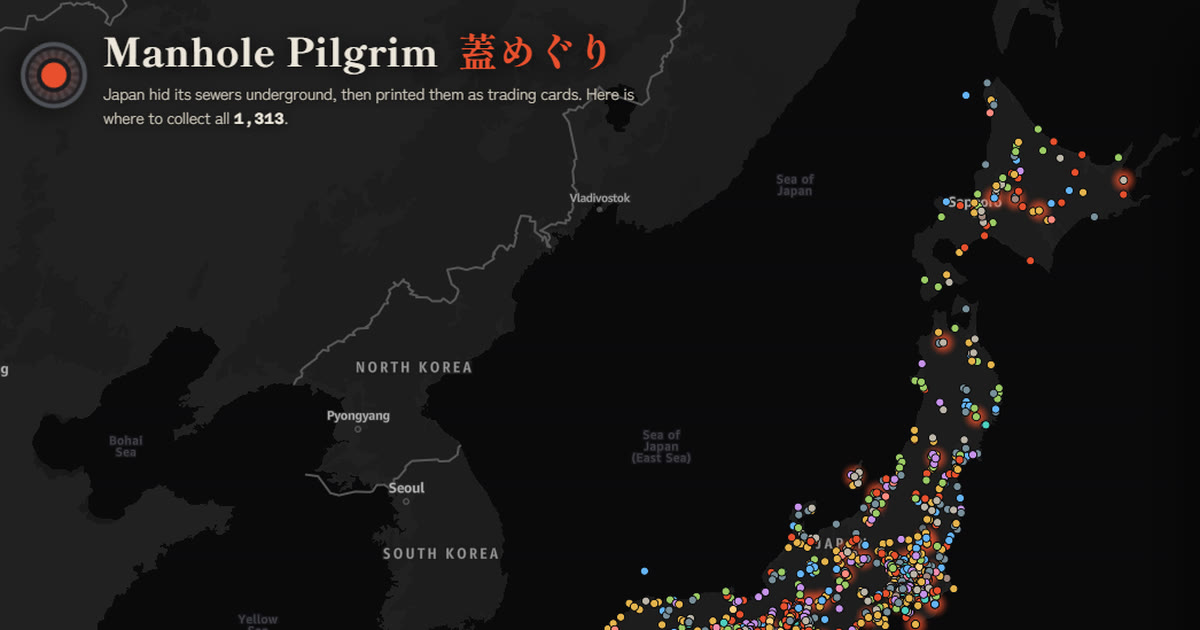
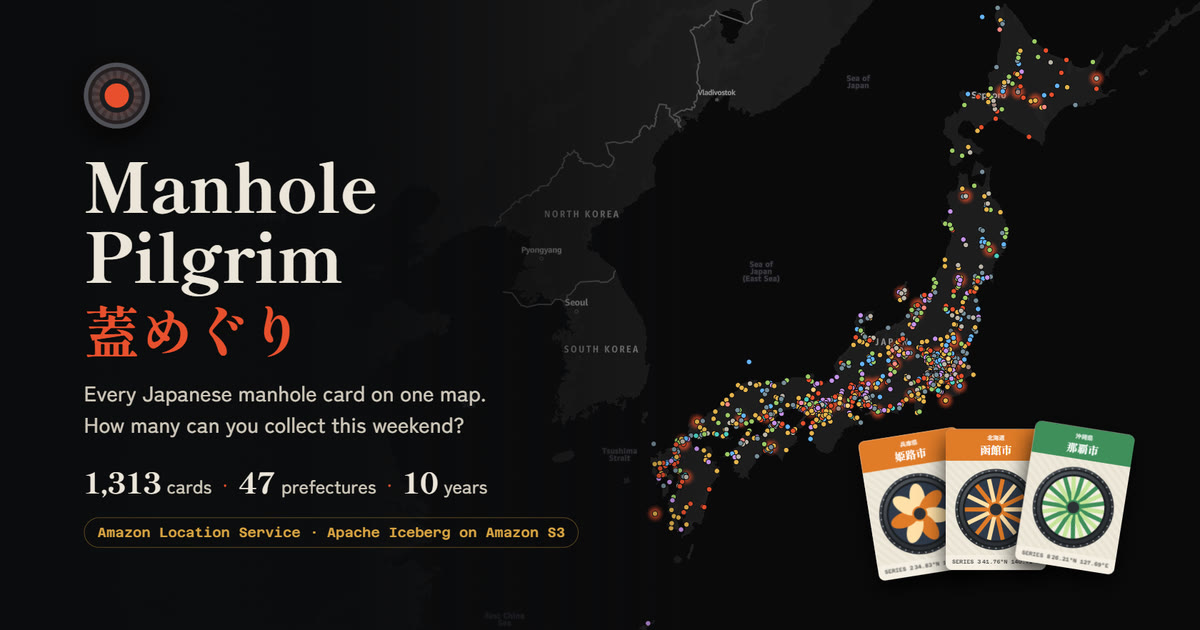
Article cover (original artwork + live map), new social preview

diff --git a/web/demo.js b/web/demo.js
@@ -303,7 +303,54 @@
     window.__demoDone = true;
   }
 
+  // ?demo=1&cover=1 → 静态封面（文章 / 社交预览用），不播放演示
+  async function cover() {
+    const { map } = MP;
+    stage.classList.remove("on");
+    document.querySelector("#panel").style.display = "none";
+    document.querySelector(".brand").style.display = "none";
+    document.querySelectorAll(".maplibregl-ctrl").forEach((c) => (c.style.display = "none"));
+    MP.S.series = MP.S.maxSeries - 1; MP.render(); // 只让最新一弾发光，避免画面太乱
+    MP.S.series = MP.S.maxSeries; MP.render();
+    const W = innerWidth, H = innerHeight;
+    map.jumpTo({ center: [136.6, 37.4], zoom: Math.log2(W / 1600) + 4.75 });
+    map.setPadding({ left: W * 0.42, top: 0, right: 0, bottom: 0 });
+    const el = document.createElement("div");
+    el.className = "cover";
+    el.innerHTML = `
+      <div class="cv-copy">
+        <div class="cv-lid"><span></span></div>
+        <h1>Manhole Pilgrim<br><span>蓋めぐり</span></h1>
+        <p>Every Japanese manhole card on one map.<br>How many can you collect this weekend?</p>
+        <div class="cv-stats"><b>1,313</b> cards <i>·</i> <b>47</b> prefectures <i>·</i> <b>10</b> years</div>
+        <div class="cv-aws">Amazon Location Service · Apache Iceberg on Amazon S3</div>
+      </div>
+      <div class="cv-cards">${["28-201-A-01", "01-202-A-01", "47-201-A-01"].map((id, i) => `<div class="cv-c" style="--i:${i}">${cardHTML(id, 190)}</div>`).join("")}</div>`;
+    const css2 = document.createElement("style");
+    css2.textContent = `
+      .cover { position: fixed; inset: 0; z-index: 70; pointer-events: none;
+        background: linear-gradient(90deg, #0b0c0d 0%, #0b0c0df2 30%, #0b0c0d99 44%, transparent 60%); }
+      .cv-copy { position: absolute; left: 7%; top: 50%; transform: translateY(-52%); color: #ece6da; max-width: 46%; }
+      .cv-lid { width: 92px; height: 92px; border-radius: 50%; margin-bottom: 28px; background: repeating-conic-gradient(#3b4046 0 10deg, #2b2f34 10deg 20deg);
+        box-shadow: inset 0 0 0 6px #4b5158, inset 0 0 0 11px #1b1d20, 0 10px 40px #000; display: grid; place-items: center; }
+      .cv-lid span { width: 34px; height: 34px; border-radius: 50%; background: #e8502d; box-shadow: 0 0 0 7px #1b1d20, 0 0 34px #e8502d; }
+      .cover h1 { font: 800 96px/1.02 "Shippori Mincho B1", serif; margin: 0; letter-spacing: -.01em; }
+      .cover h1 span { color: #e8502d; font-size: 78px; }
+      .cover p { font: 500 30px/1.45 "Zen Kaku Gothic New", sans-serif; color: #cfc8ba; margin: 26px 0 0; }
+      .cv-stats { margin-top: 30px; font: 500 26px "Zen Kaku Gothic New"; color: #cfc8ba; }
+      .cv-stats b { font: 800 40px "Shippori Mincho B1", serif; color: #ece6da; } .cv-stats i { color: #e8502d; font-style: normal; margin: 0 8px; }
+      .cv-aws { margin-top: 22px; display: inline-block; font: 600 19px "Azeret Mono", monospace; color: #d9a441; border: 1px solid #d9a44166; border-radius: 999px; padding: 9px 18px; }
+      .cv-cards { position: absolute; right: 7%; bottom: 9%; width: 440px; height: 300px; zoom: .74; }
+      .cv-c { position: absolute; bottom: 0; left: calc(var(--i) * 118px); transform: rotate(calc((var(--i) - 1) * 9deg)) translateY(calc(var(--i) * -6px)); transform-origin: 50% 120%; }
+      .cv-c .mcard { opacity: 1; transform: none; }`;
+    document.head.appendChild(css2);
+    document.body.appendChild(el);
+    await new Promise((r) => map.once("idle", r));
+    window.__coverReady = true;
+  }
+
   window.addEventListener("mp:ready", async () => {
+    if (qs.has("cover")) return cover();
     if (qs.has("wait")) {
       // 场记板：纯白画面，录屏开始后调用 window.__demoGo() 才开始，白→黑的跳变用来精确对齐配音
       const slate = Object.assign(document.createElement("div"), { style: "position:fixed;inset:0;z-index:100;background:#fff" });

diff --git a/docs/builder-center-article.md b/docs/builder-center-article.md
@@ -1,6 +1,4 @@
-# Manhole Pilgrim: mapping all 1,313 Japanese manhole cards with Amazon Location Service and Apache Iceberg on S3
-
-**Japan hid its sewers underground, then printed them as trading cards. I put all 1,313 on one map, so a traveller can see how many they can collect this weekend and get a route.**
+**Japan hid its sewers underground, then printed them as trading cards. I put all 1,313 on one map, so a traveller can see how many they can collect this weekend and get a route.**
 
 - 🗺 **Live map:** https://main.d1y4wxk0wltj16.amplifyapp.com
 - 🎬 **Demo video (2:33):** _YOUTUBE_LINK_
